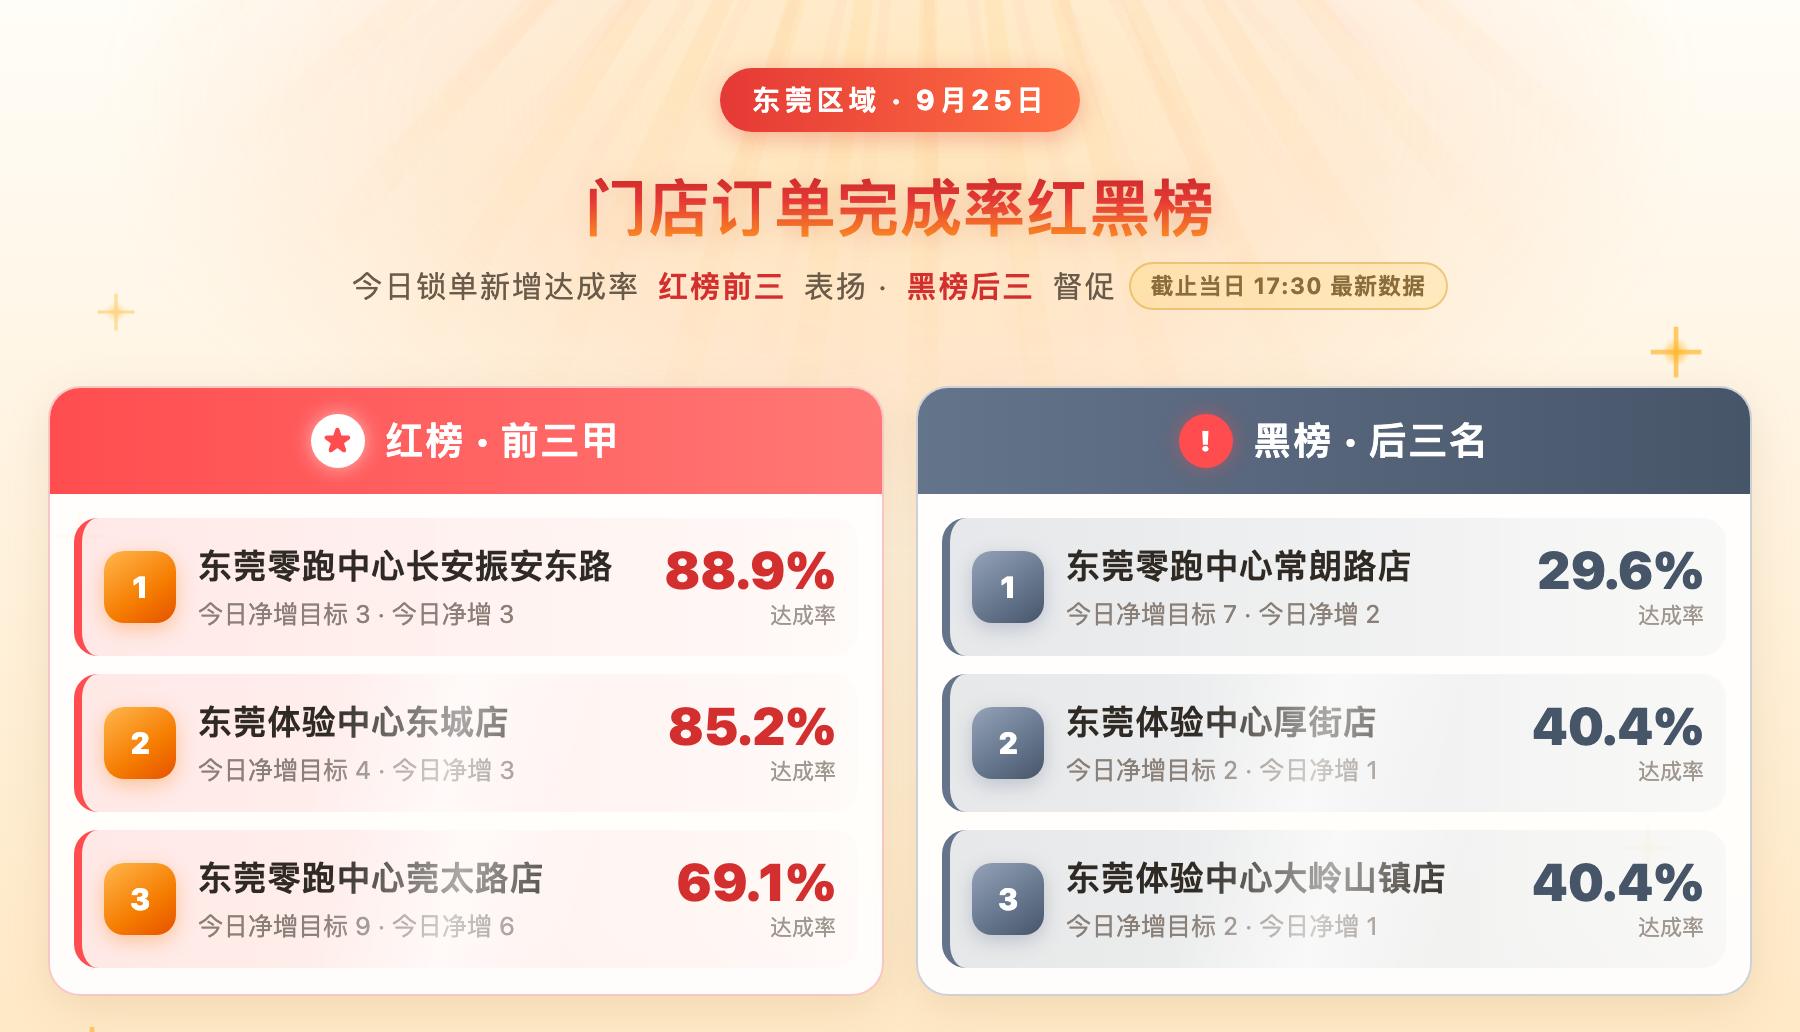
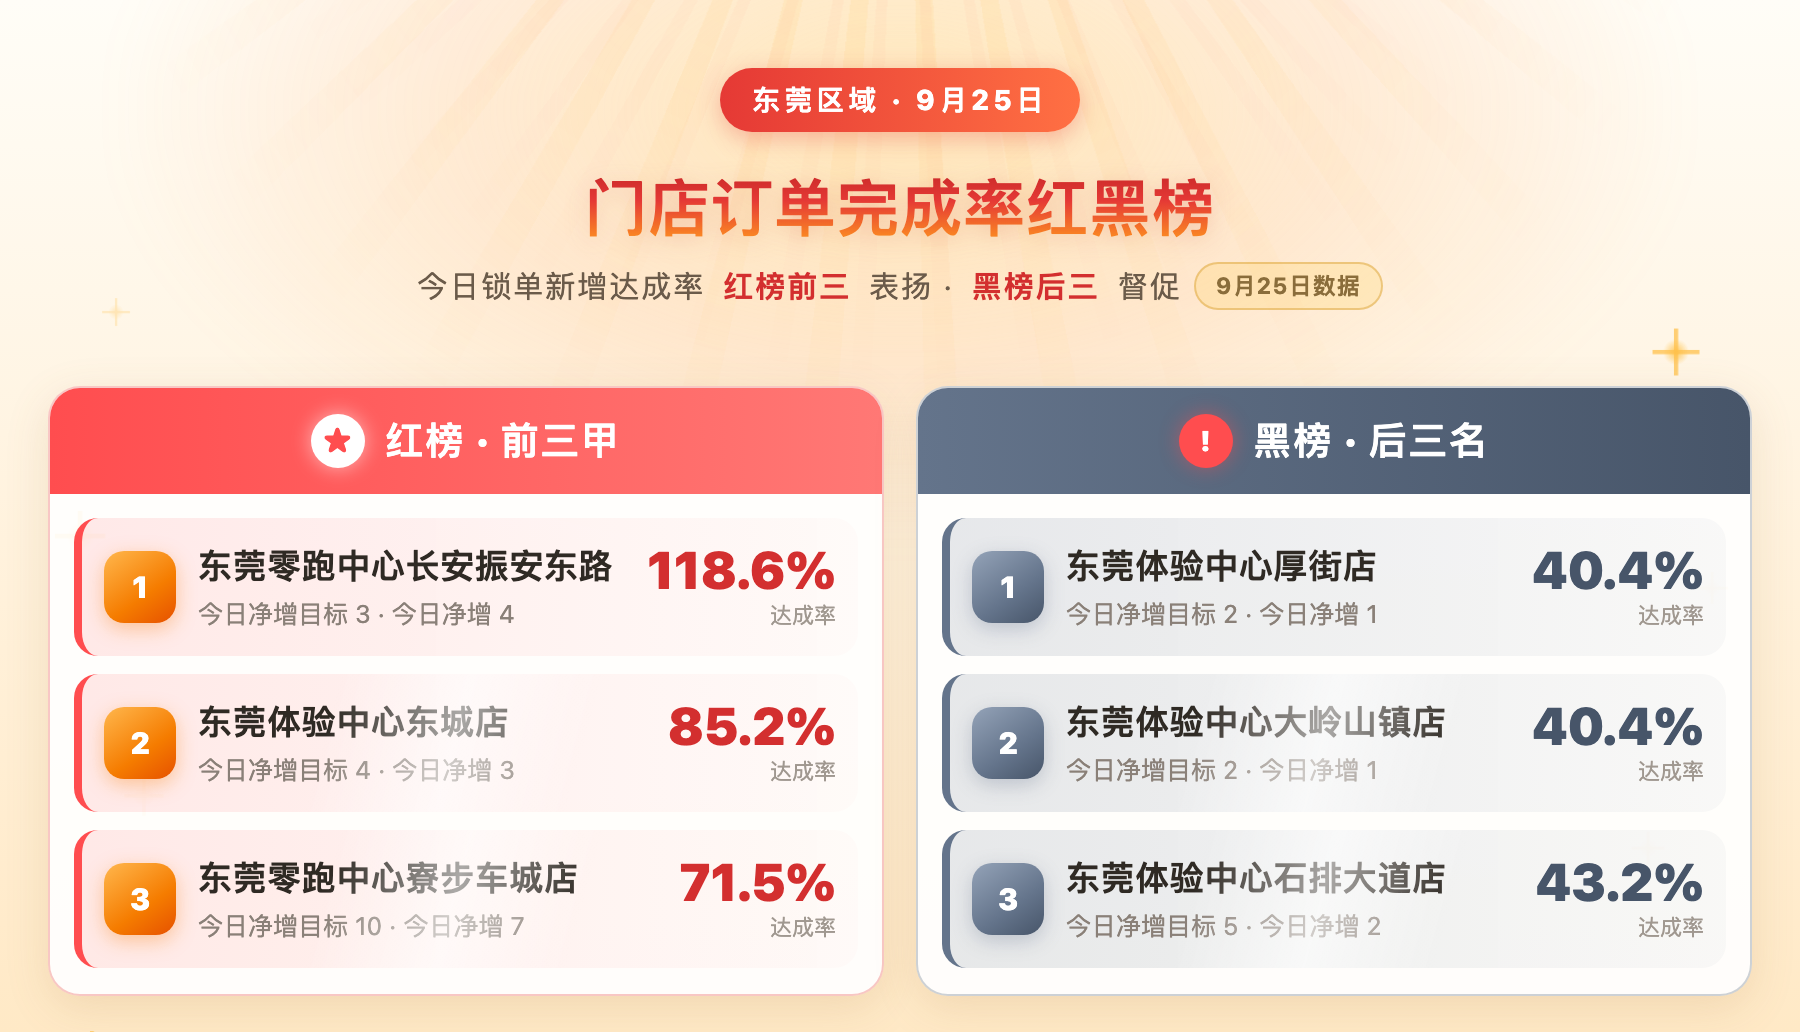
Update red-black board 9/25 final data

diff --git a/index.html b/index.html
@@ -144,7 +144,7 @@
   <header>
     <span class='eyebrow'>东莞区域 · 9月25日</span>
     <h1>门店订单完成率红黑榜</h1>
-    <p class='sub'>今日锁单新增达成率<b>红榜前三</b>表扬 · <b>黑榜后三</b>督促<span class='subtime'>截止当日 17:30 最新数据</span></p>
+    <p class='sub'>今日锁单新增达成率<b>红榜前三</b>表扬 · <b>黑榜后三</b>督促<span class='subtime'>9月25日数据</span></p>
   </header>
 
   <div class='sections'>
@@ -155,9 +155,9 @@
           <span class='rank'>1</span>
           <div class='info'>
             <div class='name'>东莞零跑中心长安振安东路</div>
-            <div class='meta'>今日净增目标 3 · 今日净增 3</div>
+            <div class='meta'>今日净增目标 3 · 今日净增 4</div>
           </div>
-          <div class='rate'><div class='rnum'>88.9%</div><div class='rlab'>达成率</div></div>
+          <div class='rate'><div class='rnum'>118.6%</div><div class='rlab'>达成率</div></div>
         </div>
         <div class='store'>
           <span class='rank'>2</span>
@@ -170,10 +170,10 @@
         <div class='store'>
           <span class='rank'>3</span>
           <div class='info'>
-            <div class='name'>东莞零跑中心莞太路店</div>
-            <div class='meta'>今日净增目标 9 · 今日净增 6</div>
+            <div class='name'>东莞零跑中心寮步车城店</div>
+            <div class='meta'>今日净增目标 10 · 今日净增 7</div>
           </div>
-          <div class='rate'><div class='rnum'>69.1%</div><div class='rlab'>达成率</div></div>
+          <div class='rate'><div class='rnum'>71.5%</div><div class='rlab'>达成率</div></div>
         </div>
       </div>
     </div>
@@ -184,15 +184,15 @@
         <div class='store'>
           <span class='rank'>1</span>
           <div class='info'>
-            <div class='name'>东莞零跑中心常朗路店</div>
-            <div class='meta'>今日净增目标 7 · 今日净增 2</div>
+            <div class='name'>东莞体验中心厚街店</div>
+            <div class='meta'>今日净增目标 2 · 今日净增 1</div>
           </div>
-          <div class='rate'><div class='rnum'>29.6%</div><div class='rlab'>达成率</div></div>
+          <div class='rate'><div class='rnum'>40.4%</div><div class='rlab'>达成率</div></div>
         </div>
         <div class='store'>
           <span class='rank'>2</span>
           <div class='info'>
-            <div class='name'>东莞体验中心厚街店</div>
+            <div class='name'>东莞体验中心大岭山镇店</div>
             <div class='meta'>今日净增目标 2 · 今日净增 1</div>
           </div>
           <div class='rate'><div class='rnum'>40.4%</div><div class='rlab'>达成率</div></div>
@@ -200,10 +200,10 @@
         <div class='store'>
           <span class='rank'>3</span>
           <div class='info'>
-            <div class='name'>东莞体验中心大岭山镇店</div>
-            <div class='meta'>今日净增目标 2 · 今日净增 1</div>
+            <div class='name'>东莞体验中心石排大道店</div>
+            <div class='meta'>今日净增目标 5 · 今日净增 2</div>
           </div>
-          <div class='rate'><div class='rnum'>40.4%</div><div class='rlab'>达成率</div></div>
+          <div class='rate'><div class='rnum'>43.2%</div><div class='rlab'>达成率</div></div>
         </div>
       </div>
     </div>
